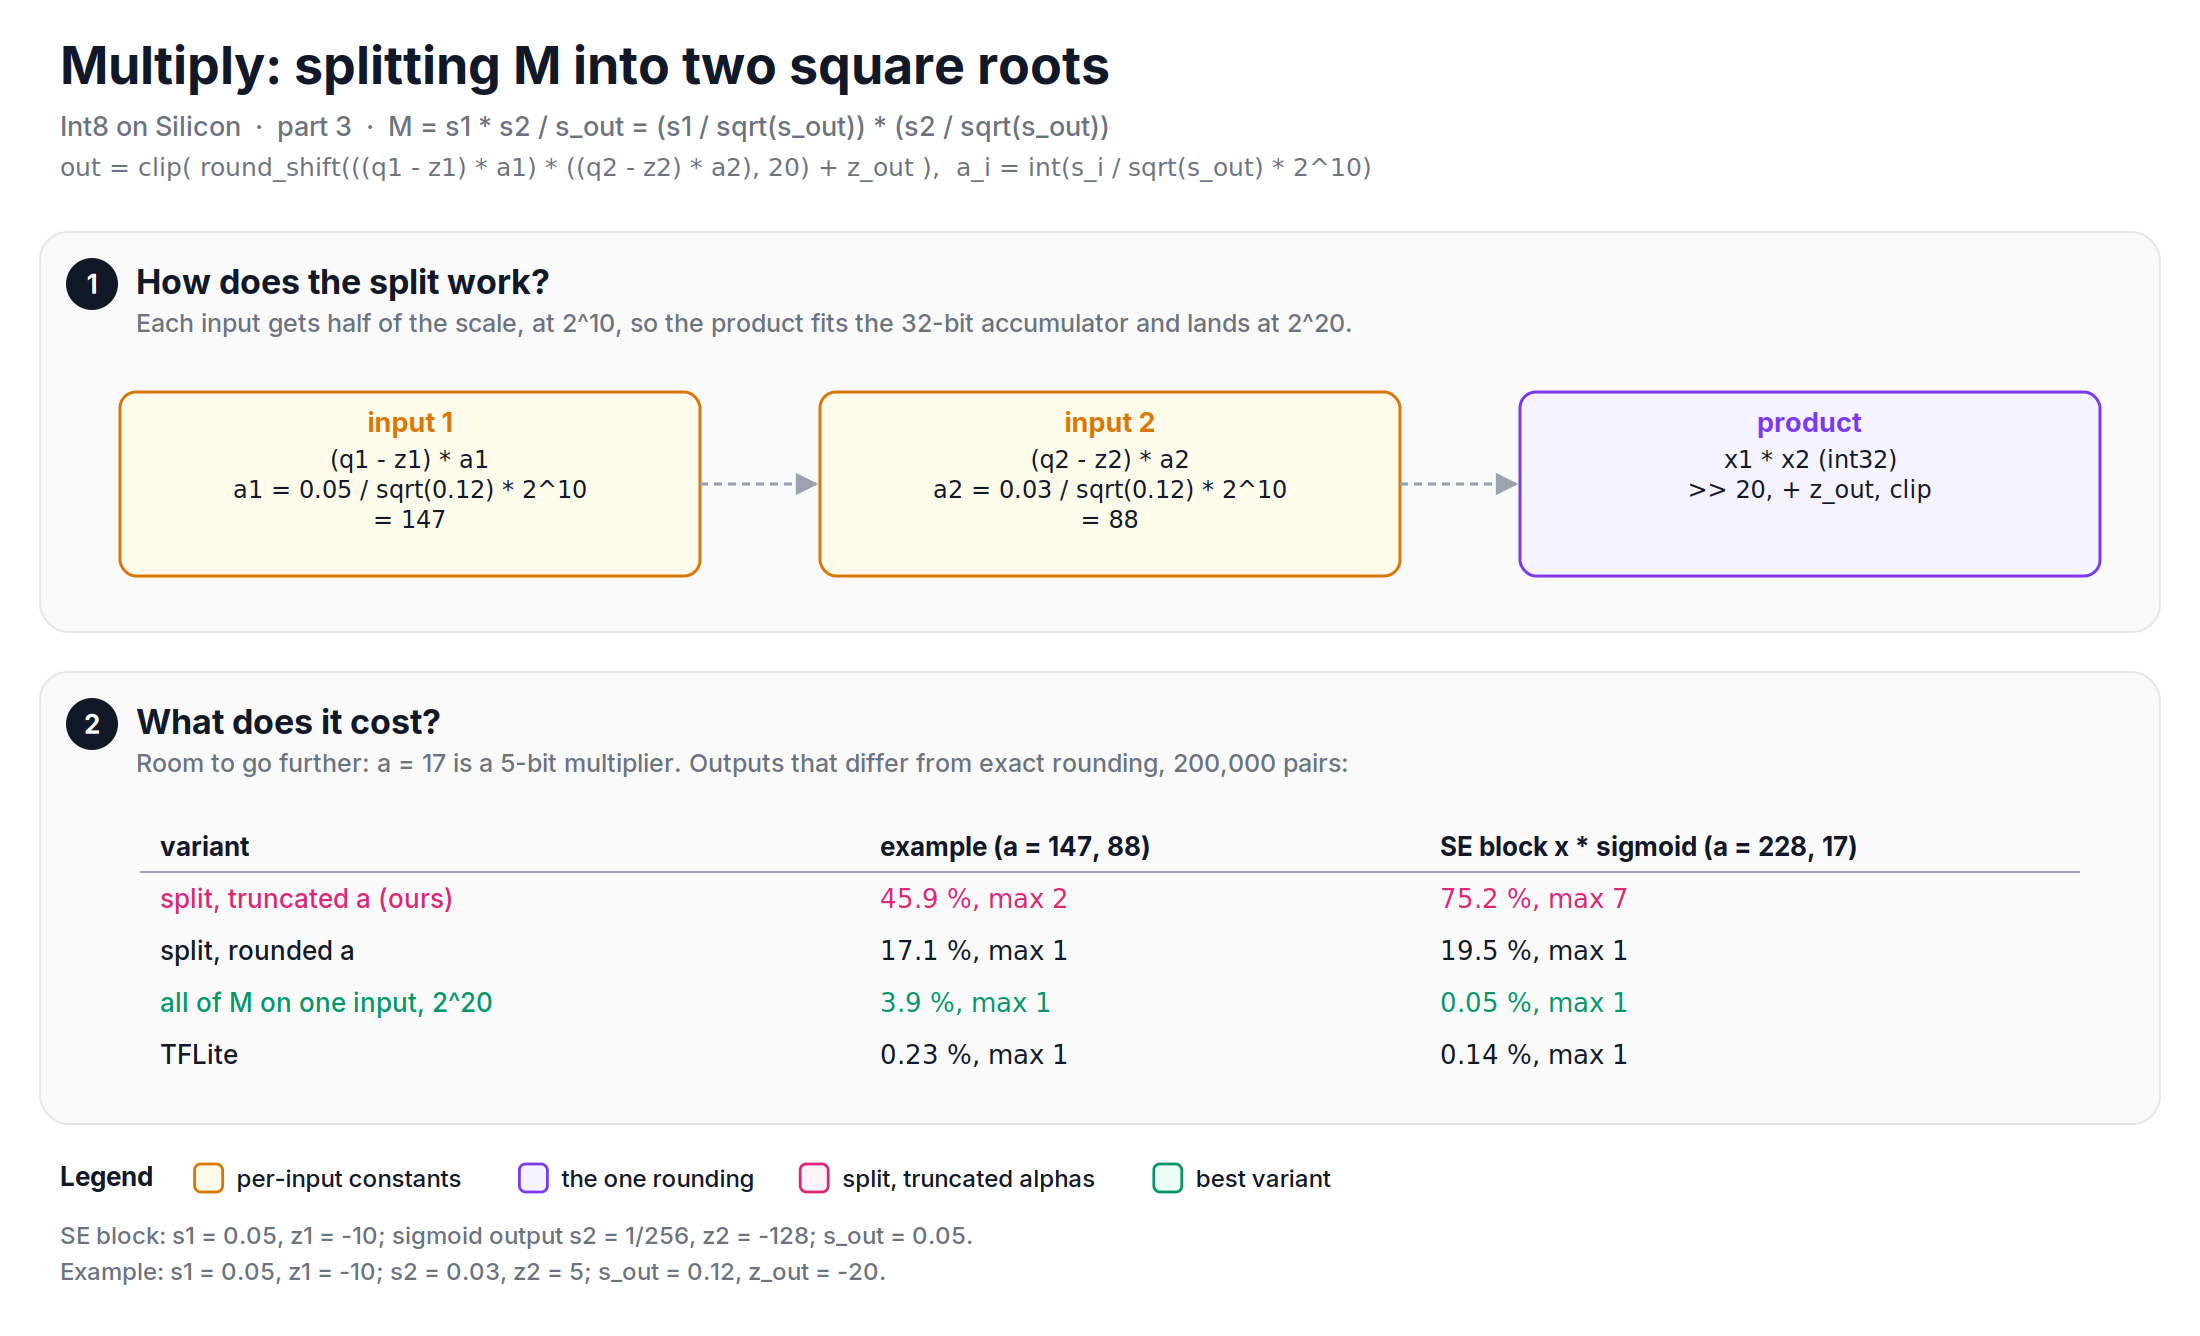
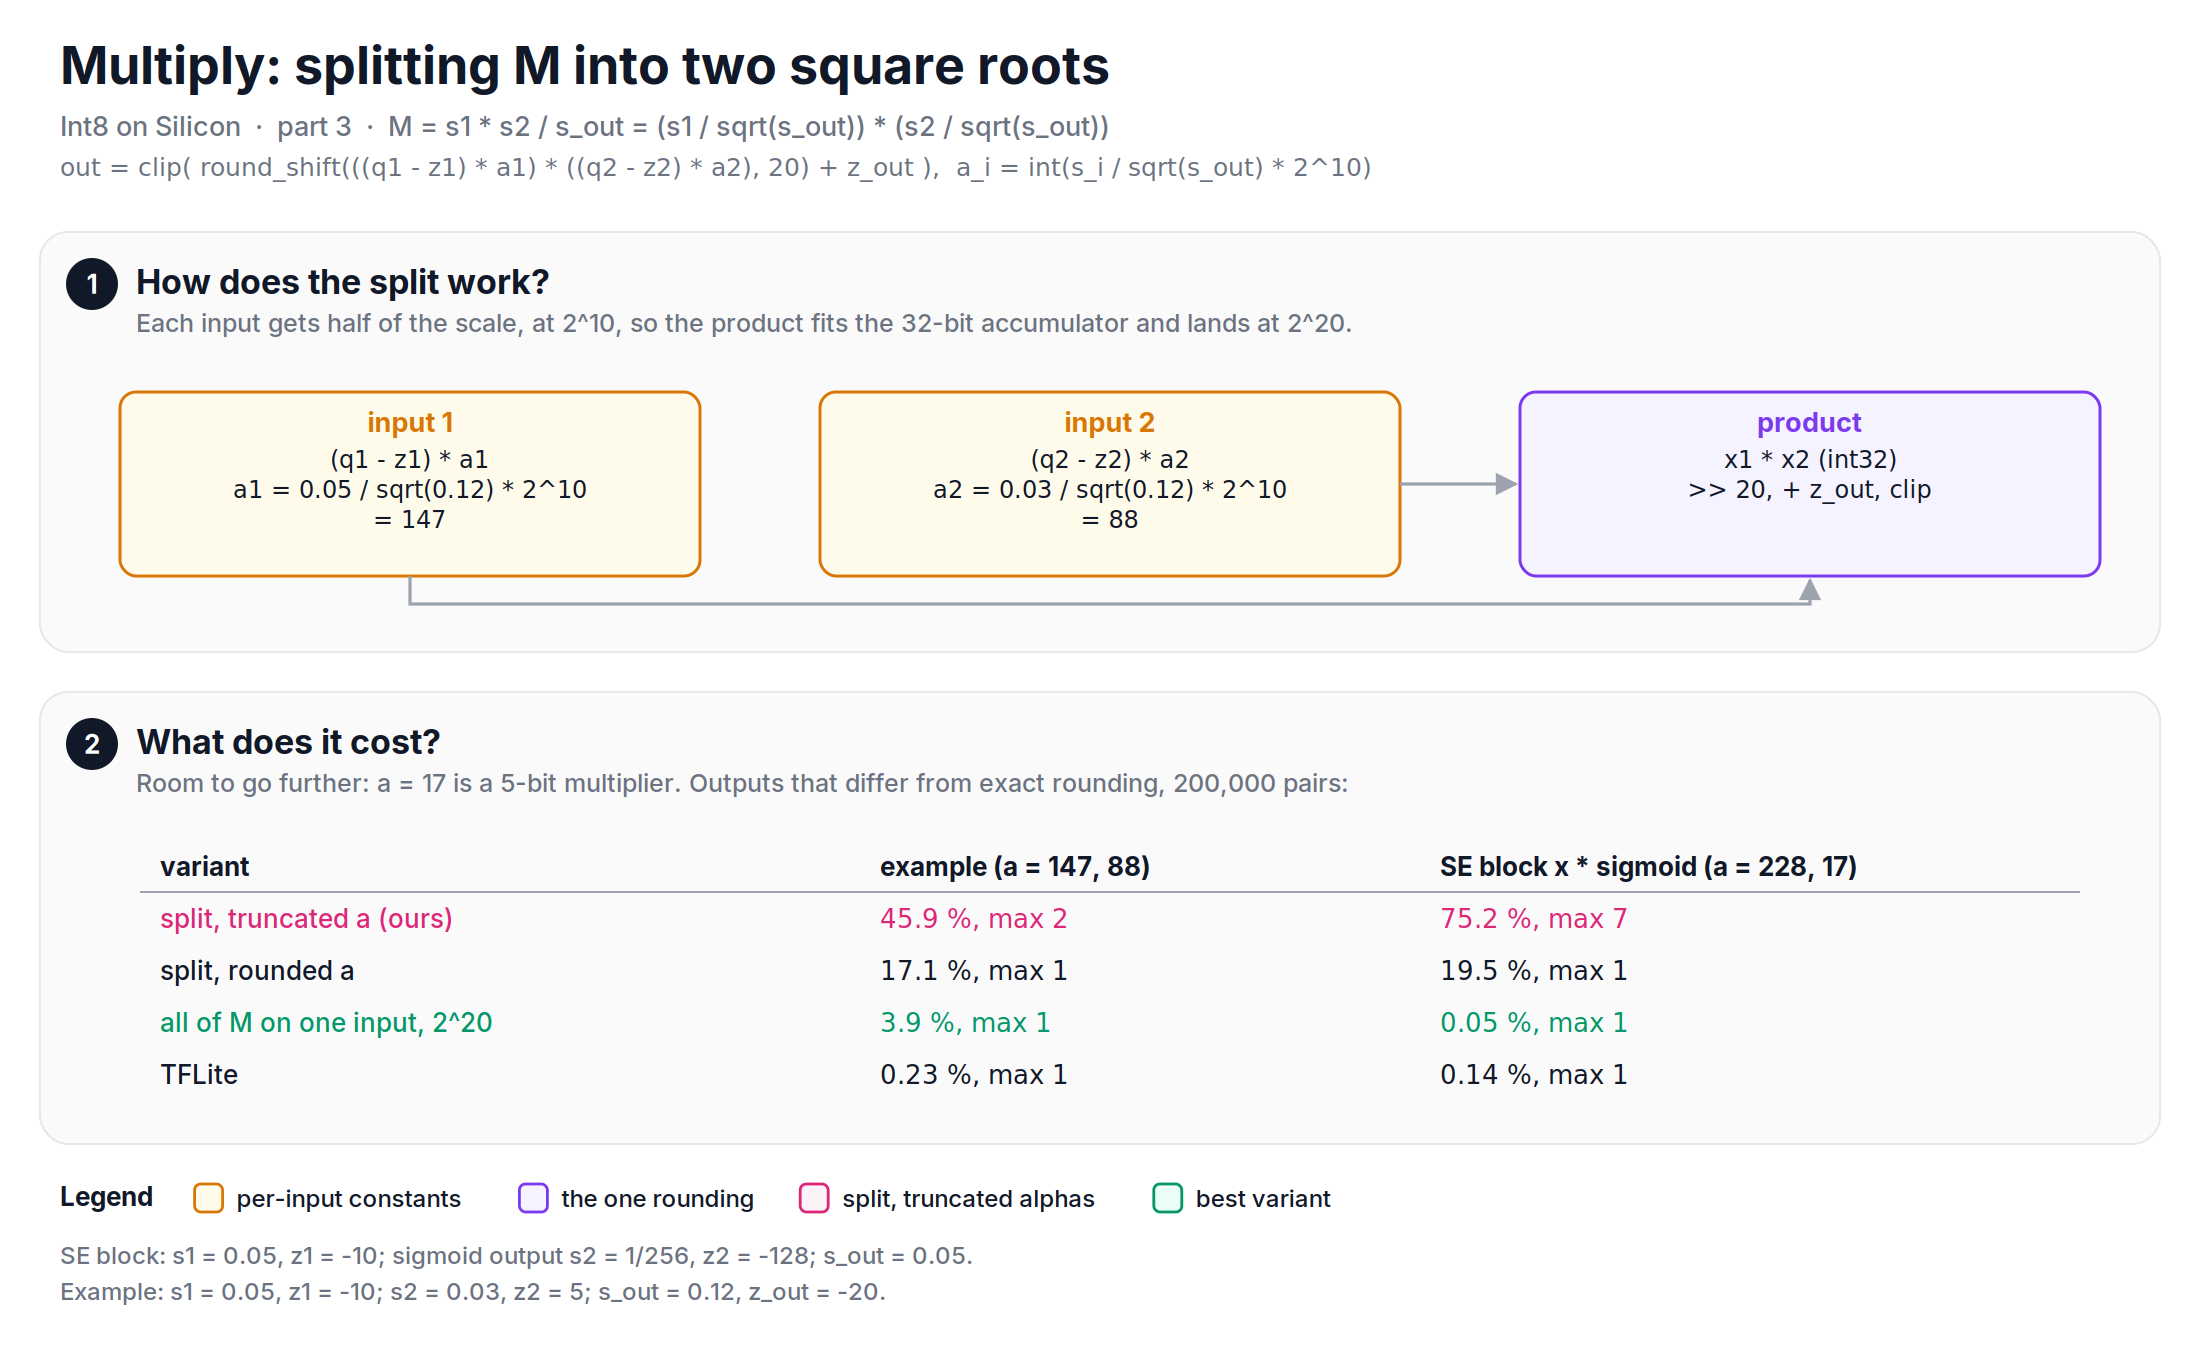
Int8 on Silicon, part 3: review fixes
Split rationale (32-bit accumulator; the comment is in the squared-
difference kernel), one-sided multiply noted as tried and commented out,
minimum-with-constant described as a clip at the constant, SE defined,
figures 1-2 show both inputs feeding the sum/product, figure 1 panel 3
filled, LinkedIn wording and carousel.

diff --git a/learnings/20261107_int8_on_silicon_3/diagrams/fig1_add_three_passes.py b/learnings/20261107_int8_on_silicon_3/diagrams/fig1_add_three_passes.py
@@ -4,7 +4,7 @@ Values: one_unit_many_ops.py, section "add": s1 0.05/z1 -10, s2 0.03/z2 5, s_out
 alpha1 748982, alpha2 449389; q1 = 40, q2 = -70 -> 1; 0 of 200,000 differ from TFLite.
 """
 
-from svglib import AMBER, BLUE, EMERALD, MUTE, VIOLET, Diagram
+from svglib import AMBER, BLUE, EMERALD, MUTE, NEUTRAL, VIOLET, Diagram
 
 d = Diagram(width=1100)
 d.header("Add: three sets of constants, one rounding",
@@ -15,15 +15,16 @@ BW, BH = 290, 92
 XS = [60, 410, 760]
 
 y = 116
-d.panel(y, 200, 1, "How does the unit add two tensors with different scales?",
+d.panel(y, 210, 1, "How does the unit add two tensors with different scales?",
         "The bias slot removes each zero point, alpha rescales each input to the output scale, and one shift ends it.")
 d.box(XS[0], y + 80, BW, BH, "input 1", ["bias = -z1 = 10", "alpha1 = 0.05/0.07 * 2^20", "= 748982"], col=AMBER, mono_size=12)
 d.box(XS[1], y + 80, BW, BH, "input 2", ["bias = -z2 = -5", "alpha2 = 0.03/0.07 * 2^20", "= 449389"], col=AMBER, mono_size=12)
 d.box(XS[2], y + 80, BW, BH, "sum", ["x1 + x2", ">> 20 (the one rounding)", "+ z_out, clip"], col=VIOLET, mono_size=12)
-d.arrow(XS[0] + BW, y + 126, XS[1] - 2, y + 126, MUTE, dash="4 3")
-d.arrow(XS[1] + BW, y + 126, XS[2] - 2, y + 126, MUTE, dash="4 3")
+d.arrow(XS[1] + BW, y + 126, XS[2] - 2, y + 126, MUTE)
+x1c, x3c, yb = XS[0] + BW / 2, XS[2] + BW / 2, y + 80 + BH
+d.path_arrow(f"M {x1c:.1f},{yb:.1f} L {x1c:.1f},{yb + 14:.1f} L {x3c:.1f},{yb + 14:.1f} L {x3c:.1f},{yb + 2:.1f}", MUTE)
 
-y += 220
+y += 230
 d.panel(y, 170, 2, "What does one example give?",
         "q1 = 40 and q2 = -70: the float answer is 0.571, and the unit gives 1.")
 d.box(XS[0], y + 74, BW, 72, "scaled inputs", ["50 * 748982", "-75 * 449389"], col=BLUE, mono_size=12)
@@ -33,10 +34,13 @@ d.arrow(XS[1] + BW, y + 110, XS[2] - 2, y + 110, VIOLET)
 d.box(XS[2], y + 74, BW, 72, "+ z_out", ["4 + (-3) = 1", "float: 0.571 -> 1"], col=EMERALD, mono_size=12)
 
 y += 190
-d.panel(y, 130, 3, "How close is it to TFLite?",
-        "Identical. 0 of 200,000 random input pairs differ. alpha has about 20 bits when s_in / s_out is near 1.")
+d.panel(y, 170, 3, "How close is it to TFLite?",
+        "Identical for these scales. alpha has about 20 bits when s_in / s_out is near 1.")
+d.box(XS[0], y + 74, BW, 72, "ours", ["one rounding", "shift 20"], col=VIOLET, mono_size=12)
+d.box(XS[1], y + 74, BW, 72, "TFLite", ["left shift 20, three", "multipliers, two roundings each"], col=NEUTRAL, mono_size=12)
+d.box(XS[2], y + 74, BW, 72, "200,000 random pairs", ["0 differ"], col=EMERALD, mono_size=12.5)
 
-y += 150
+y += 190
 d.legend(30, y, [(AMBER, "per-input constants"), (VIOLET, "the one rounding"), (BLUE, "int32 data"), (EMERALD, "int8 output")])
 y = d.footnotes(30, y + 40, ["TFLite shifts both inputs left by 20 and uses three multipliers, each with two roundings."])
 d.save(height=y + 10)

diff --git a/learnings/20261107_int8_on_silicon_3/diagrams/fig2_multiply_split.py b/learnings/20261107_int8_on_silicon_3/diagrams/fig2_multiply_split.py
@@ -14,15 +14,16 @@ d.header("Multiply: splitting M into two square roots",
 BW, BH = 290, 92
 XS = [60, 410, 760]
 y = 116
-d.panel(y, 200, 1, "How does the split work?",
+d.panel(y, 210, 1, "How does the split work?",
         "Each input gets half of the scale, at 2^10, so the product fits the 32-bit accumulator and lands at 2^20.")
 d.box(XS[0], y + 80, BW, BH, "input 1", ["(q1 - z1) * a1", "a1 = 0.05 / sqrt(0.12) * 2^10", "= 147"], col=AMBER, mono_size=12)
 d.box(XS[1], y + 80, BW, BH, "input 2", ["(q2 - z2) * a2", "a2 = 0.03 / sqrt(0.12) * 2^10", "= 88"], col=AMBER, mono_size=12)
 d.box(XS[2], y + 80, BW, BH, "product", ["x1 * x2 (int32)", ">> 20, + z_out, clip"], col=VIOLET, mono_size=12)
-d.arrow(XS[0] + BW, y + 126, XS[1] - 2, y + 126, NEUTRAL[0], dash="4 3")
-d.arrow(XS[1] + BW, y + 126, XS[2] - 2, y + 126, NEUTRAL[0], dash="4 3")
+d.arrow(XS[1] + BW, y + 126, XS[2] - 2, y + 126, NEUTRAL[0])
+x1c, x3c, yb = XS[0] + BW / 2, XS[2] + BW / 2, y + 80 + BH
+d.path_arrow(f"M {x1c:.1f},{yb:.1f} L {x1c:.1f},{yb + 14:.1f} L {x3c:.1f},{yb + 14:.1f} L {x3c:.1f},{yb + 2:.1f}", NEUTRAL[0])
 
-y += 220
+y += 230
 rows = [
     ("variant", "example (a = 147, 88)", "SE block x * sigmoid (a = 228, 17)"),
     ("split, truncated a (ours)", "45.9 %, max 2", "75.2 %, max 7"),

diff --git a/learnings/20261107_int8_on_silicon_3/linkedin-post.md b/learnings/20261107_int8_on_silicon_3/linkedin-post.md
@@ -1,6 +1,6 @@
 # LinkedIn post: Int8 on Silicon - Part 3: One unit, many operations
 
-**Attach:** `fig1_add_three_passes.png`, `fig2_multiply_split.png`, `fig3_relu_family.png` as a carousel (in order).
+**Attach:** `fig1_add_three_passes.png`, `fig2_multiply_split.png`, `fig3_relu_family.png`, `fig4_ops_as_constants.png` as a carousel (in this order, as in the post).
 
 ---
 
@@ -14,7 +14,7 @@ ReLU, ReLU6, LeakyReLU, PReLU and min(x, c) are one kernel: a slope for negative
 
 Multiply had to fit a 32-bit accumulator. We split M = s1·s2/s_out into two square roots, one per input, at 2^10 each, which was more accurate than the uneven split before it (46% vs 62% of outputs off exact rounding). Measuring it again this week, there is room to go further: for an SE block (x · sigmoid), one alpha is only 17, and putting all of M on one input would bring the error to 0.05%.
 
-The models matched TFLite accuracy either way.
+Model accuracy was on par with TFLite either way.
 
 Code and figure scripts are in my kaizen repo (link in comments). Part 4: operations without a divider.
 
